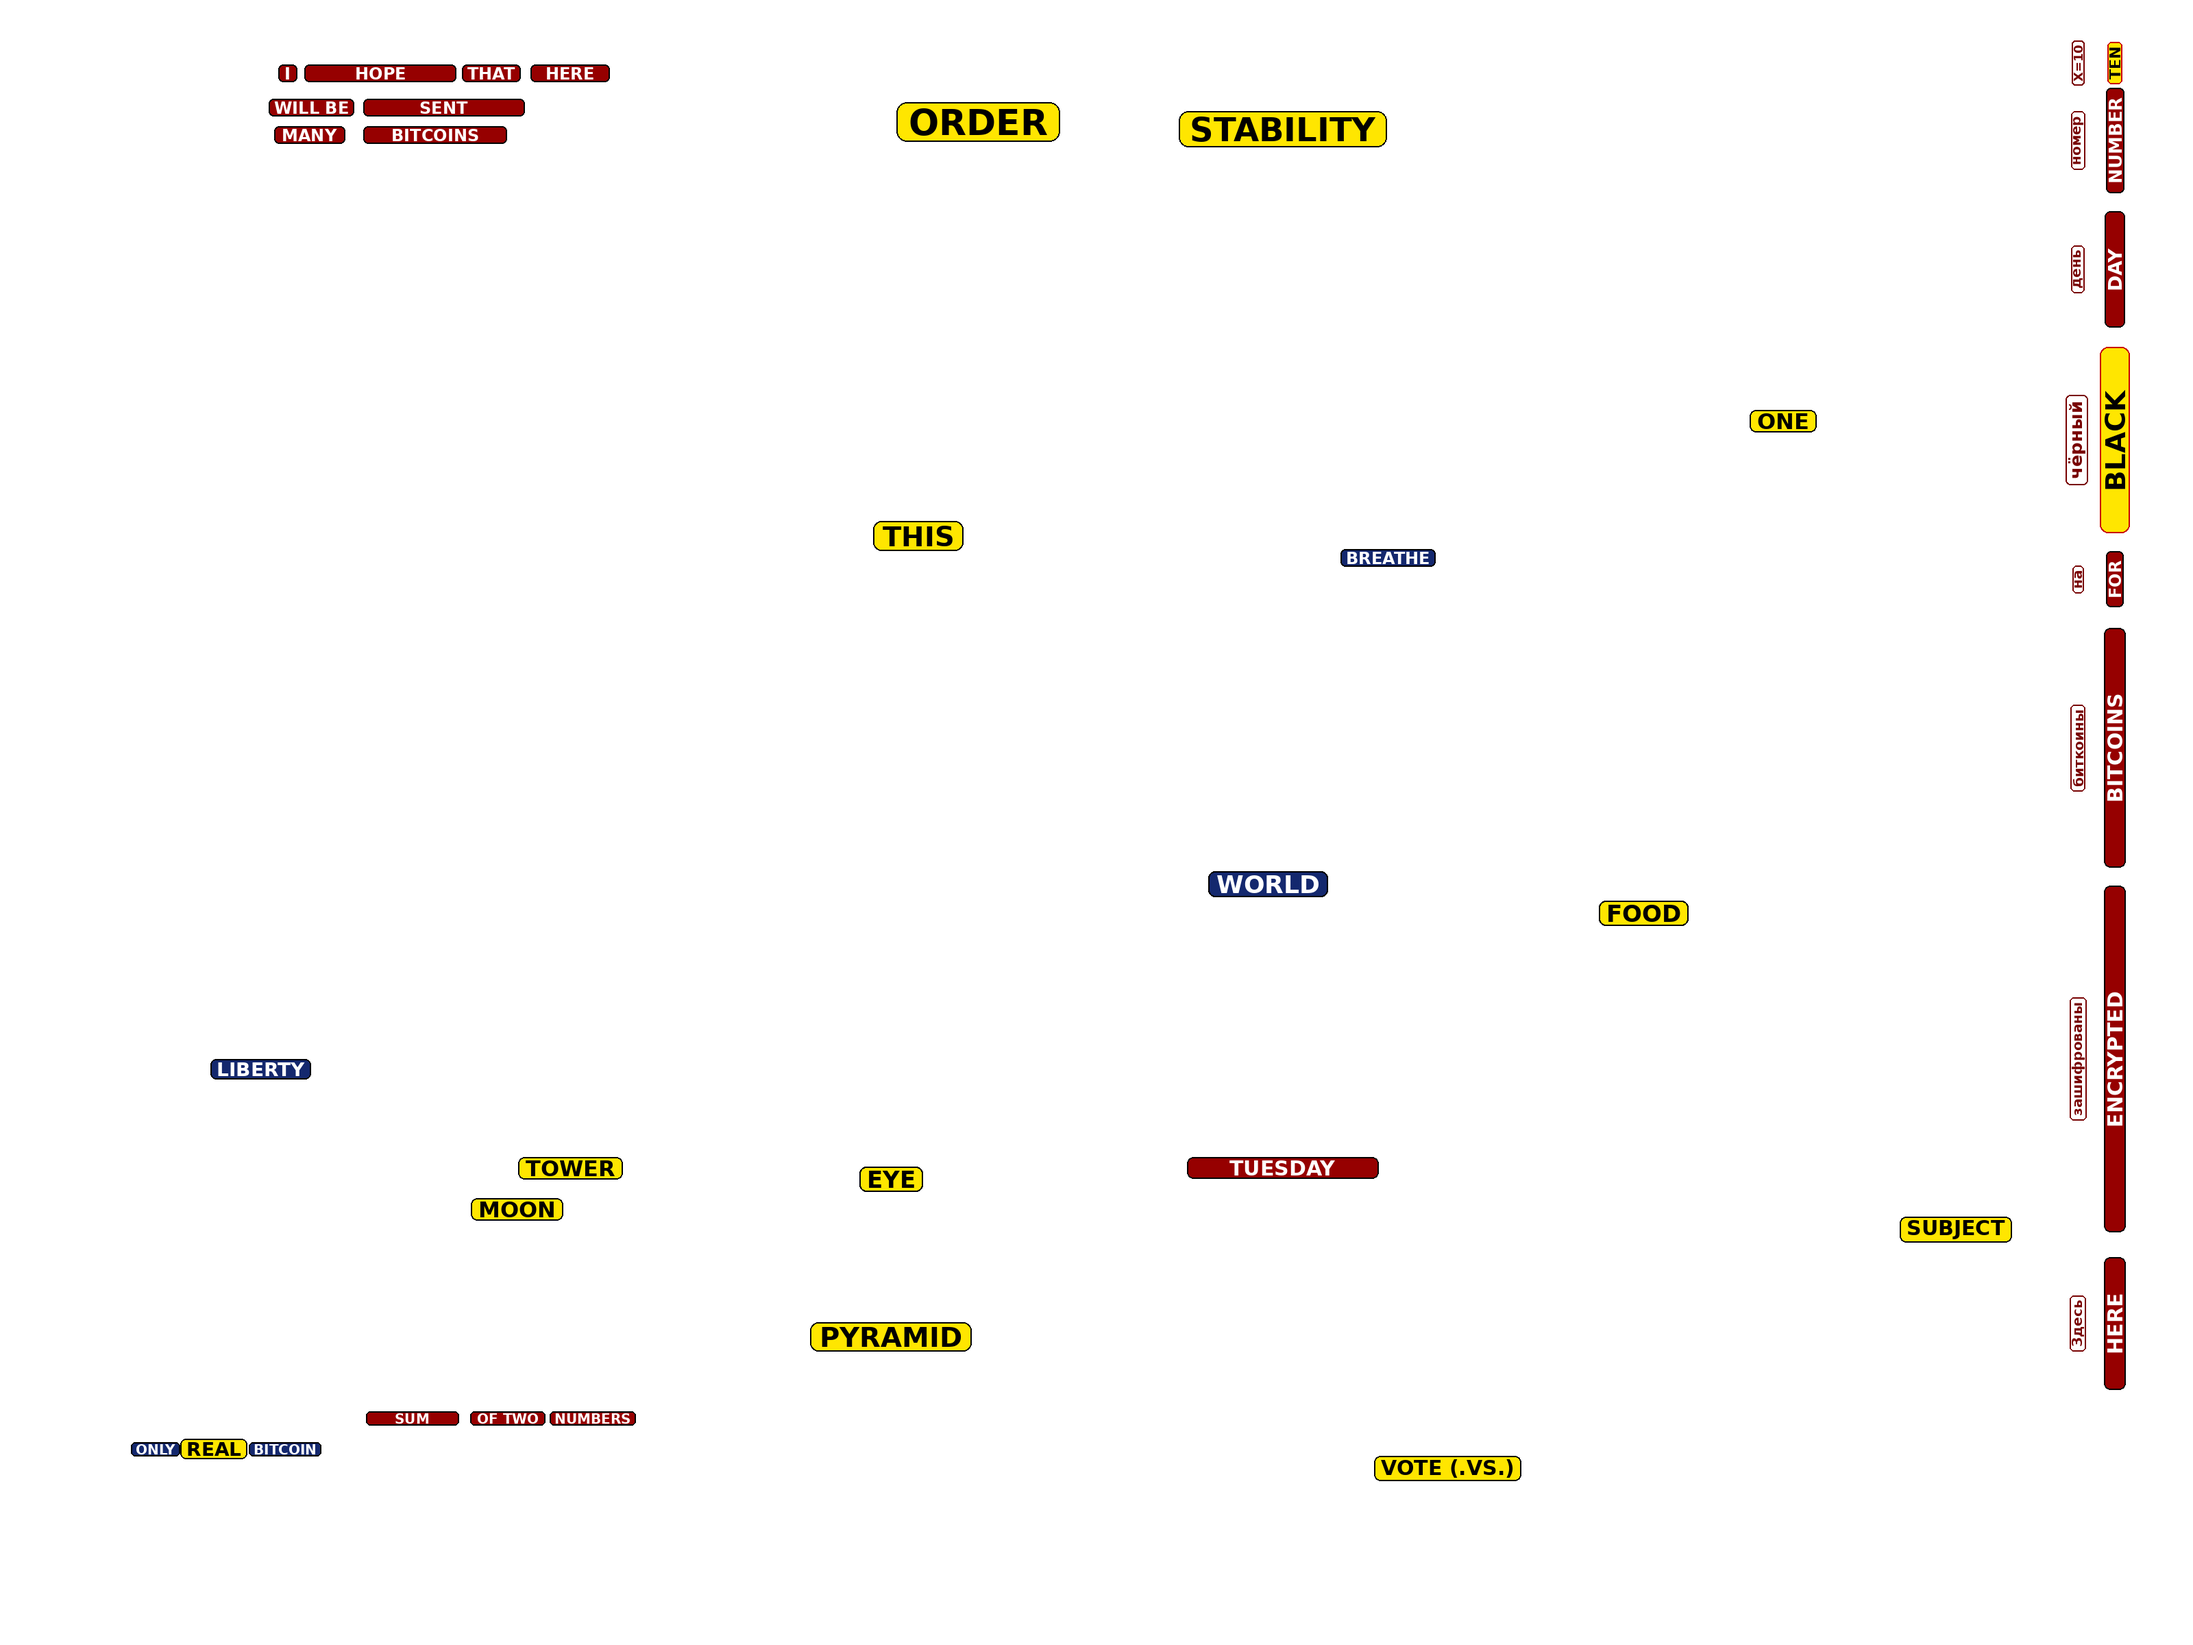
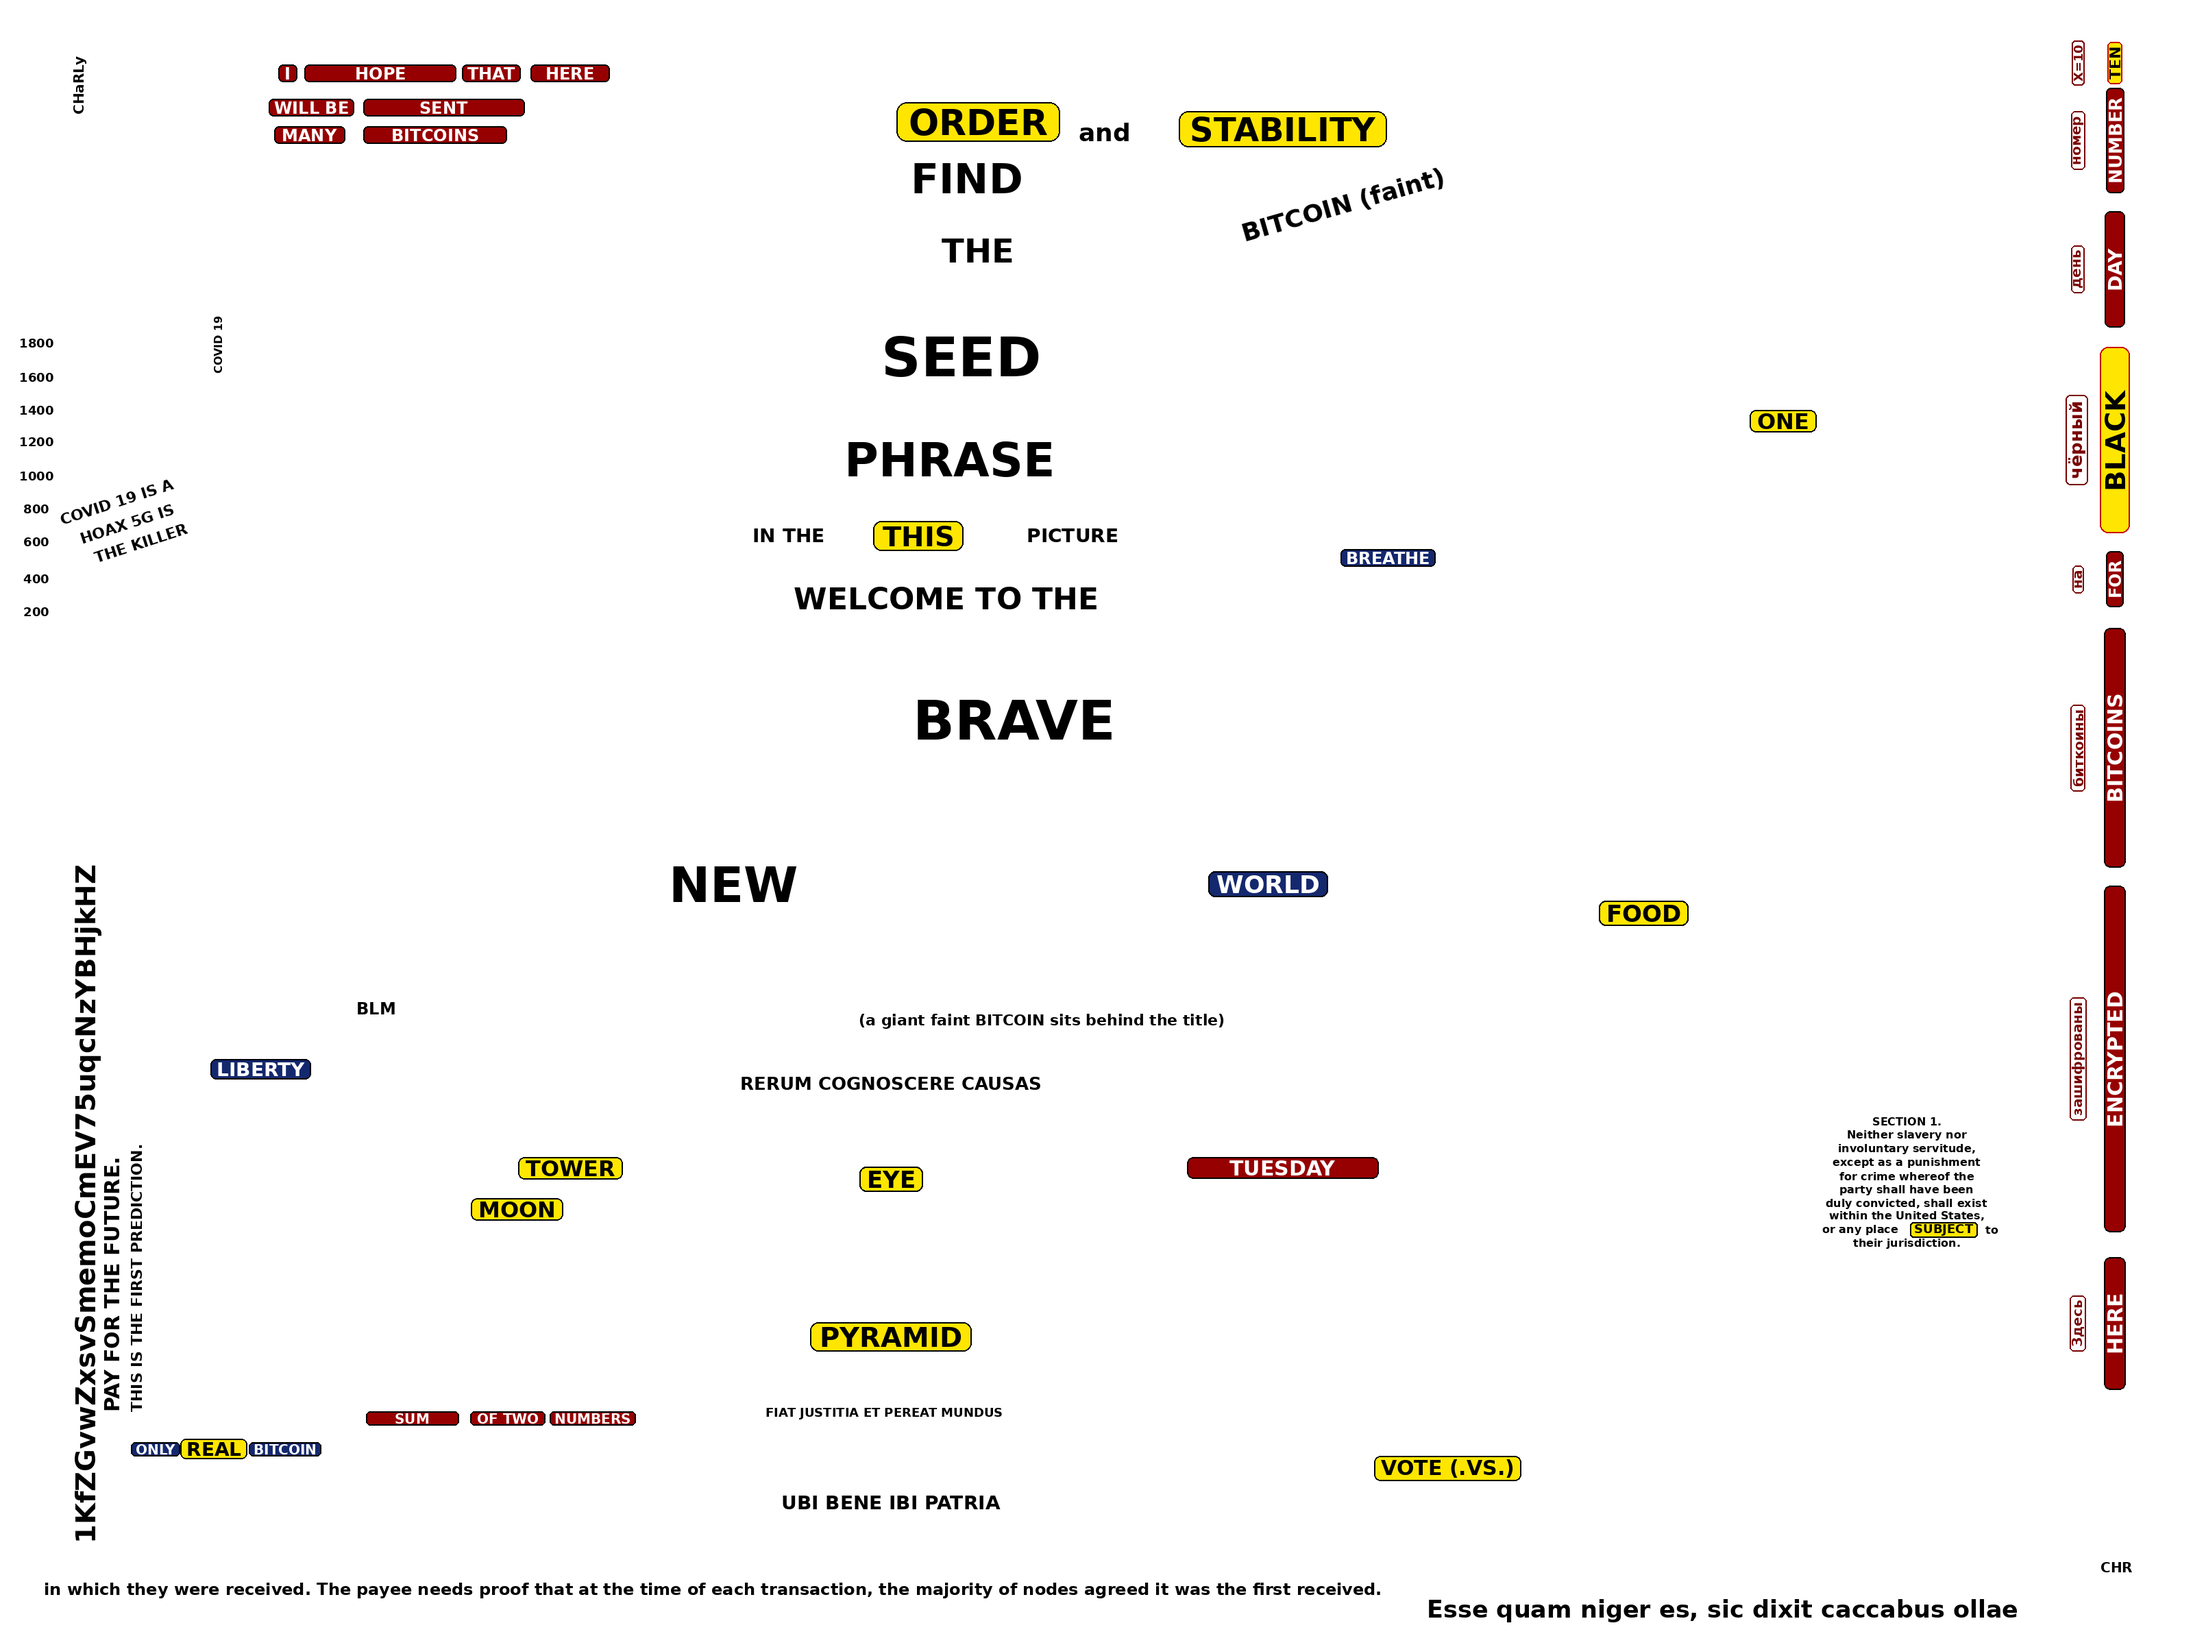
Clock overlay: the labelled painting rewrites the rest of its text in bold black
The header, the title, the captions beside Liberty, the address, the COVID
lines, the chart axis, the seal's mottoes, the pedestal's 13th Amendment text,
the whitepaper line, the Latin line and the signatures are now written in bold
black over where they are. The highlighted words and rune groups are unchanged
(SUBJECT is smaller, inside its pedestal line).

Claude-Session: https://claude.ai/code/session_01UiD4nwSwpMxhQXazZHzHBa

diff --git a/assets/clock-app.js b/assets/clock-app.js
@@ -11,7 +11,9 @@
                       note: "Each word in the picture has a bold label over it. Yellow: the candidate words (ORDER, STABILITY, TOWER, " +
                             "MOON, FOOD, REAL, THIS, ONE, SUBJECT, EYE, PYRAMID, VOTE, and in the right-border runes BLACK and TEN). " +
                             "Red: what each rune group says (right border bottom to top, the top-left rows, the clock strip, the line " +
-                            "above Trump), with the Russian beside the right border. Navy: weaker candidates. The labels are a layer " +
+                            "above Trump), with the Russian beside the right border. Navy: weaker candidates. Black: the rest of the " +
+                            "picture's text, rewritten in bold over where it is (the whitepaper micro-text inside the title letters " +
+                            "is left as drawn). The labels are a layer " +
                             "over the picture, so a picture view changes the paint under them and not the labels." }]
     .concat(D.pictures || []);
   let current = PICTURES[0];
